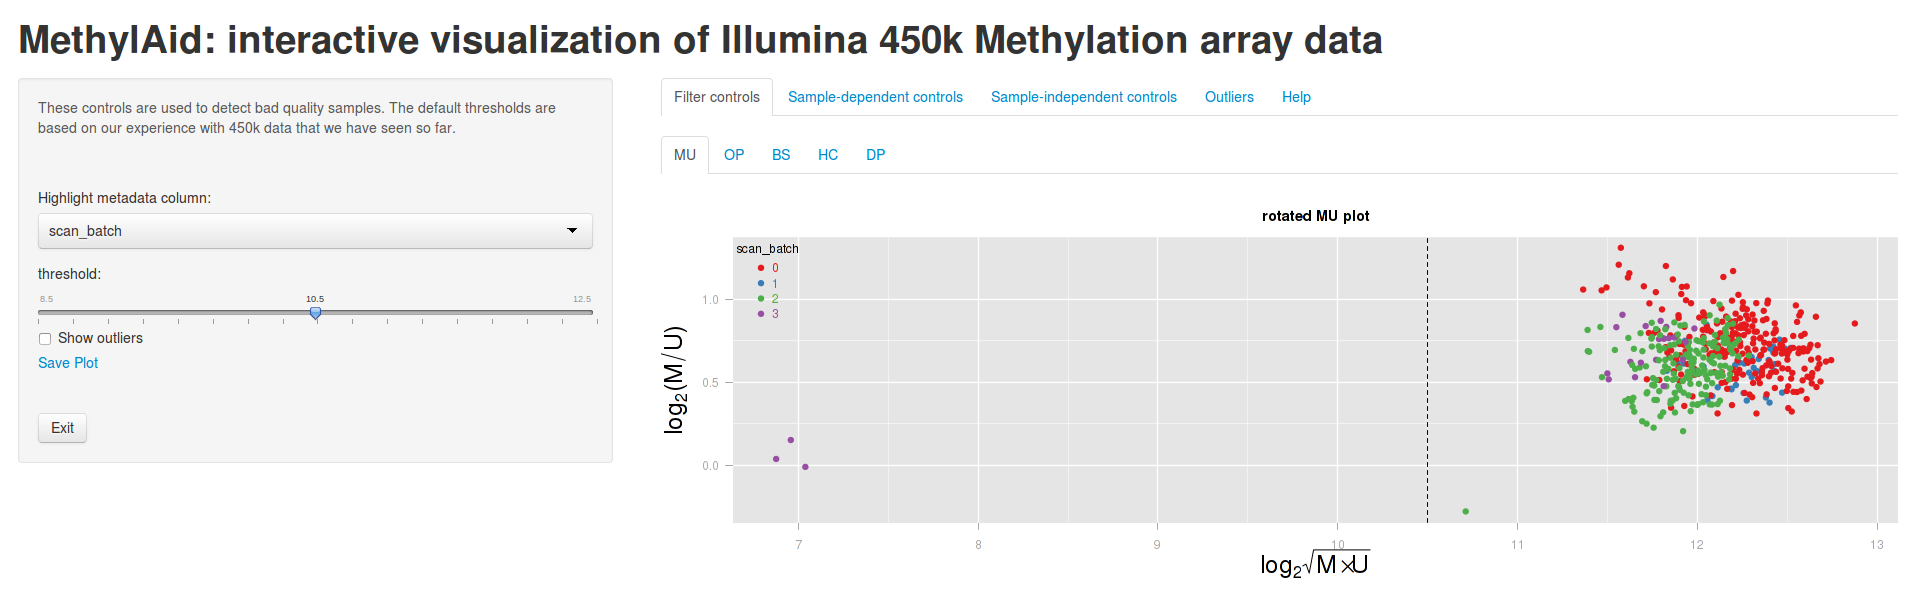
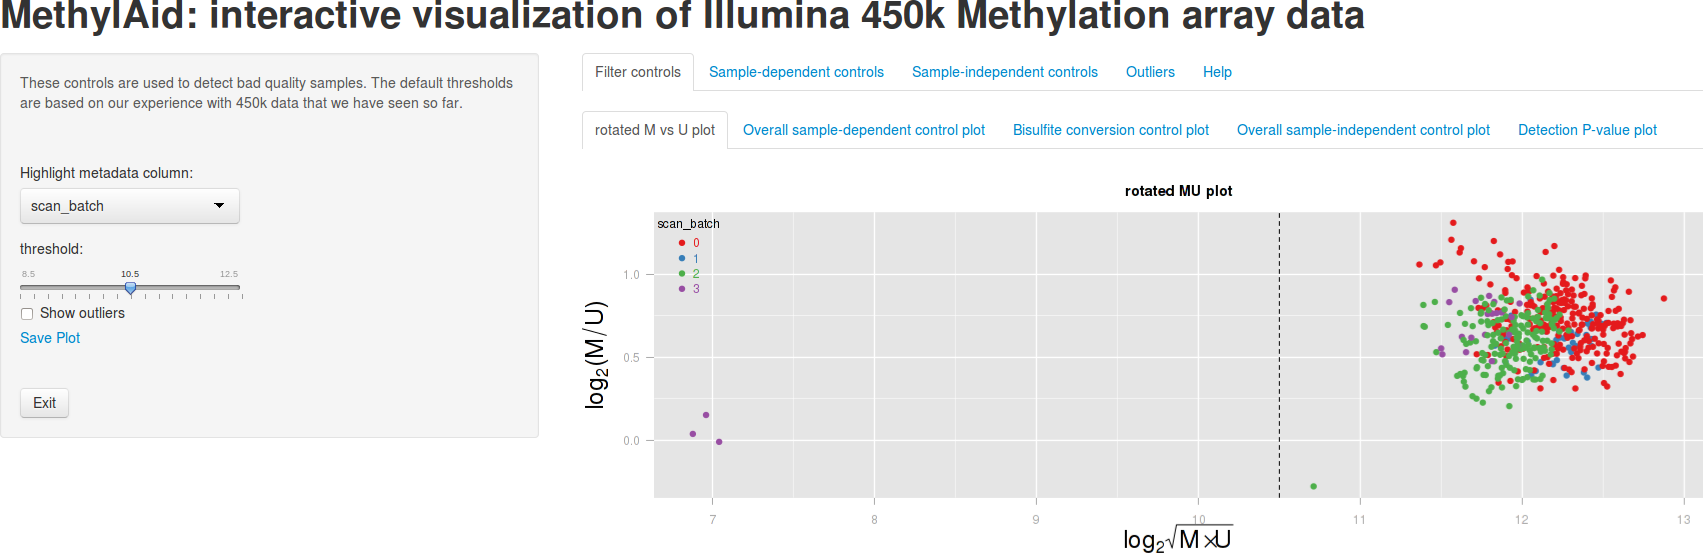
Add some help text to the shinyApp, added a paragraph to the vignette and replaced some abbr. in the App with full descriptions
git-svn-id: https://hedgehog.fhcrc.org/bioconductor/trunk/madman/Rpacks/MethylAid@92736 bc3139a8-67e5-0310-9ffc-ced21a209358

diff --git a/inst/www/Help.html b/inst/www/Help.html
@@ -50,15 +50,33 @@ Center,
 <H1 CLASS="western"><B>Description of the filter plots</B></H1>
 <P><SPAN STYLE="font-weight: normal">Five filter plots are proposed
 to determine bad-quality samples. A plot based on the median
-Methylated and Unmethylated log2 intensity, Type I bisufite
-conversion quality control probes, non-polymorphic sample-dependent
-quality control probes, and sample-dependent hybridization quality
-control probes and a plot representing per sample the fraction of
-probe above background using the detection p-value based on the
-negative controls. To make optimal use of the plotting area and a
-filtering out bad quality samples easier by using just one threshold
-all plots except based on the the detection p-value are 45 degrees
-rotated like the tranditional microarray MA-plots. </SPAN>
+Methylated and Unmethylated log2 intensity, non-polymorphic sample-dependent
+quality control probes, Type I bisufite conversion quality control probes, 
+sample-dependent hybridization quality control probes and a plot
+representing per sample the fraction of probes above background using the 
+detection p-value based on the negative controls. To make optimal use 
+of the plotting area and filtering out bad quality samples easier 
+by using just one threshold all plots except based on the the detection
+p-value are 45 degrees rotated like the tranditional microarray MA-plots. 
+The default thresholds are based on our experience with 450k data 
+that we have seen so far. We have obtained good results with excluding
+samples with:
+<ol>
+<li>a median Methylated and Unmethylated log2 intensity smaller than 10.5;
+ Rotated MU plot</li>
+<li>an average log2 intensity of the expected signals in green and red 
+channel of non-polymorphic controls smaller than 11.75; Overall sample-dependent
+ control plot</li>
+<li>an average log2 intensity of converted Bisulfite Type I controls 
+in green and red channel smaller than 12.75; Bisulfite converion control
+ plot</li>
+<li>an average log2 intensity of High and Low hybridization controls
+ (green channel) smaller than 13.25; Overall sample-dependent control
+ plot</li>
+<li>less 95% of their probes above the background signal;Detection 
+p-value plot</li>
+</ol> 
+</SPAN>
 </P>
 <H1 CLASS="western"><B>Description of the quality control probes</B></H1>
 <P><SPAN STYLE="font-weight: normal">Below you find a detailed
